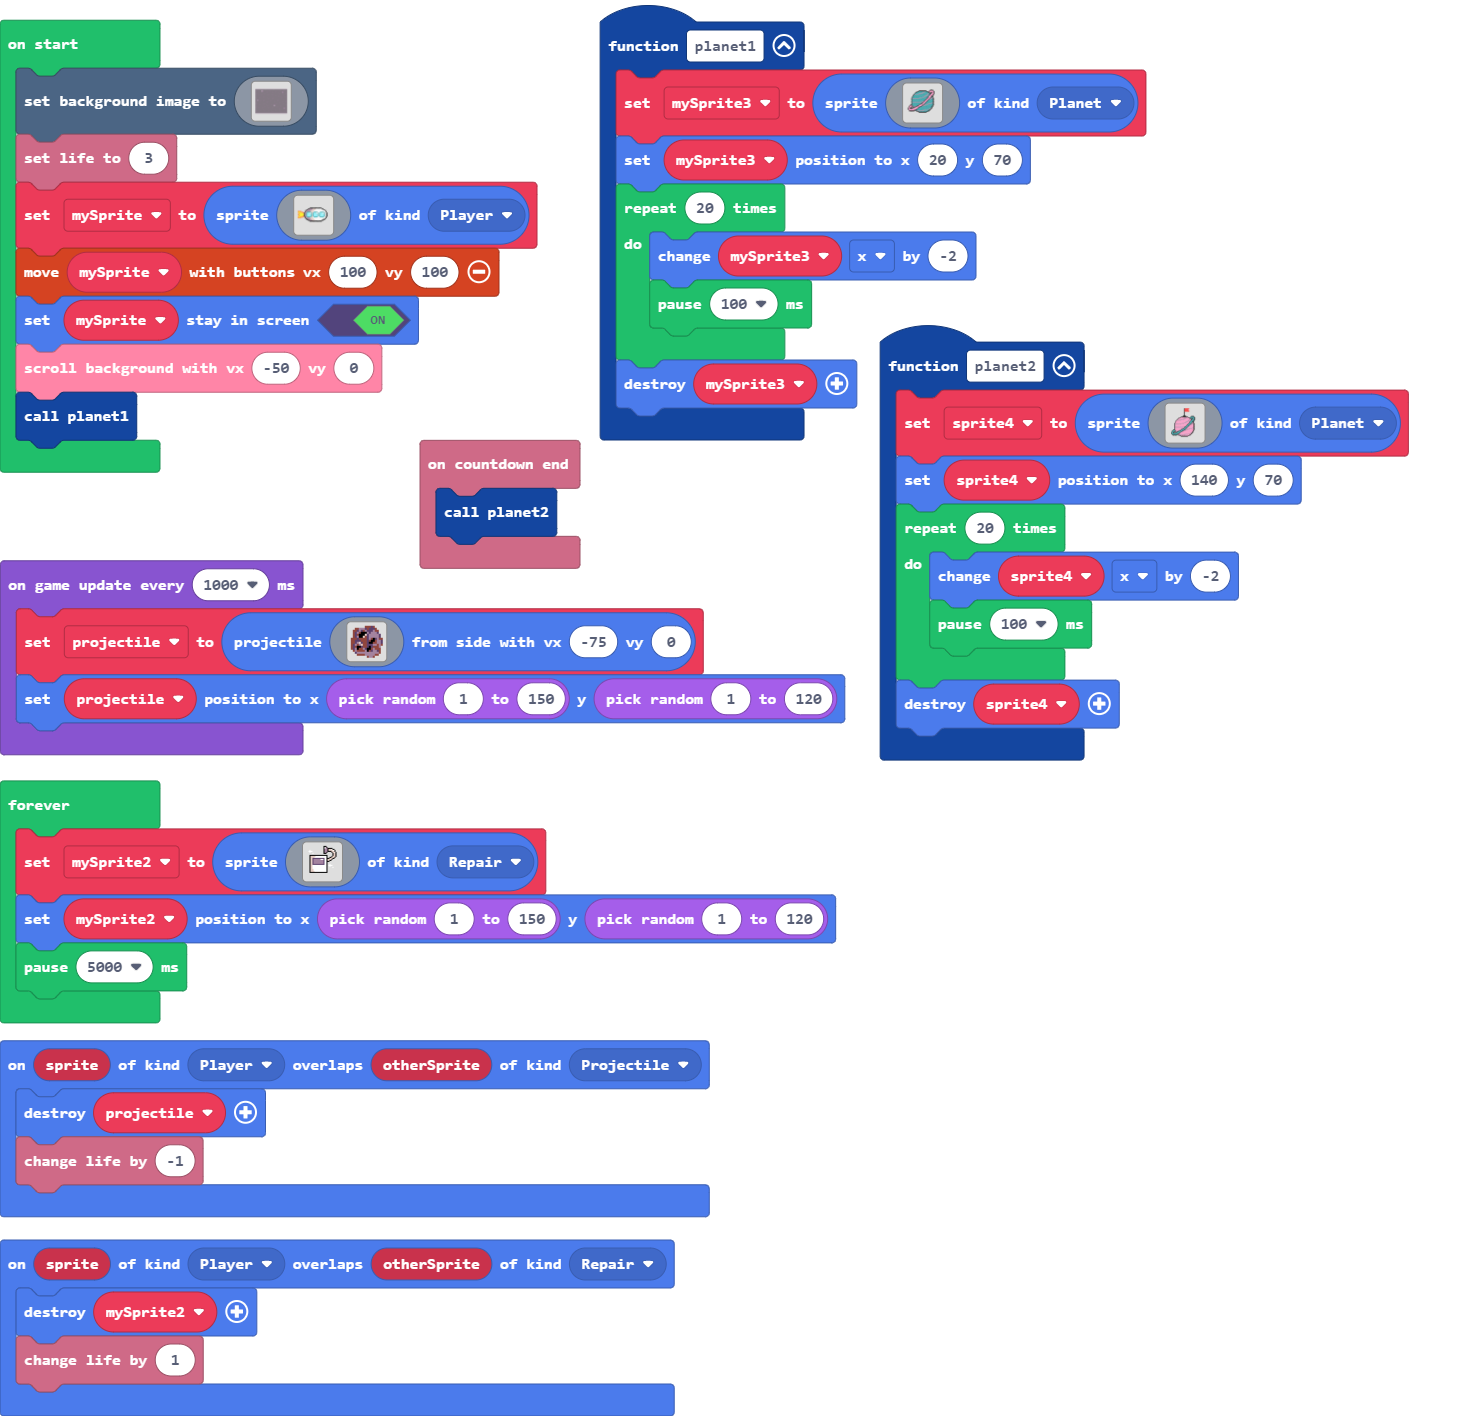
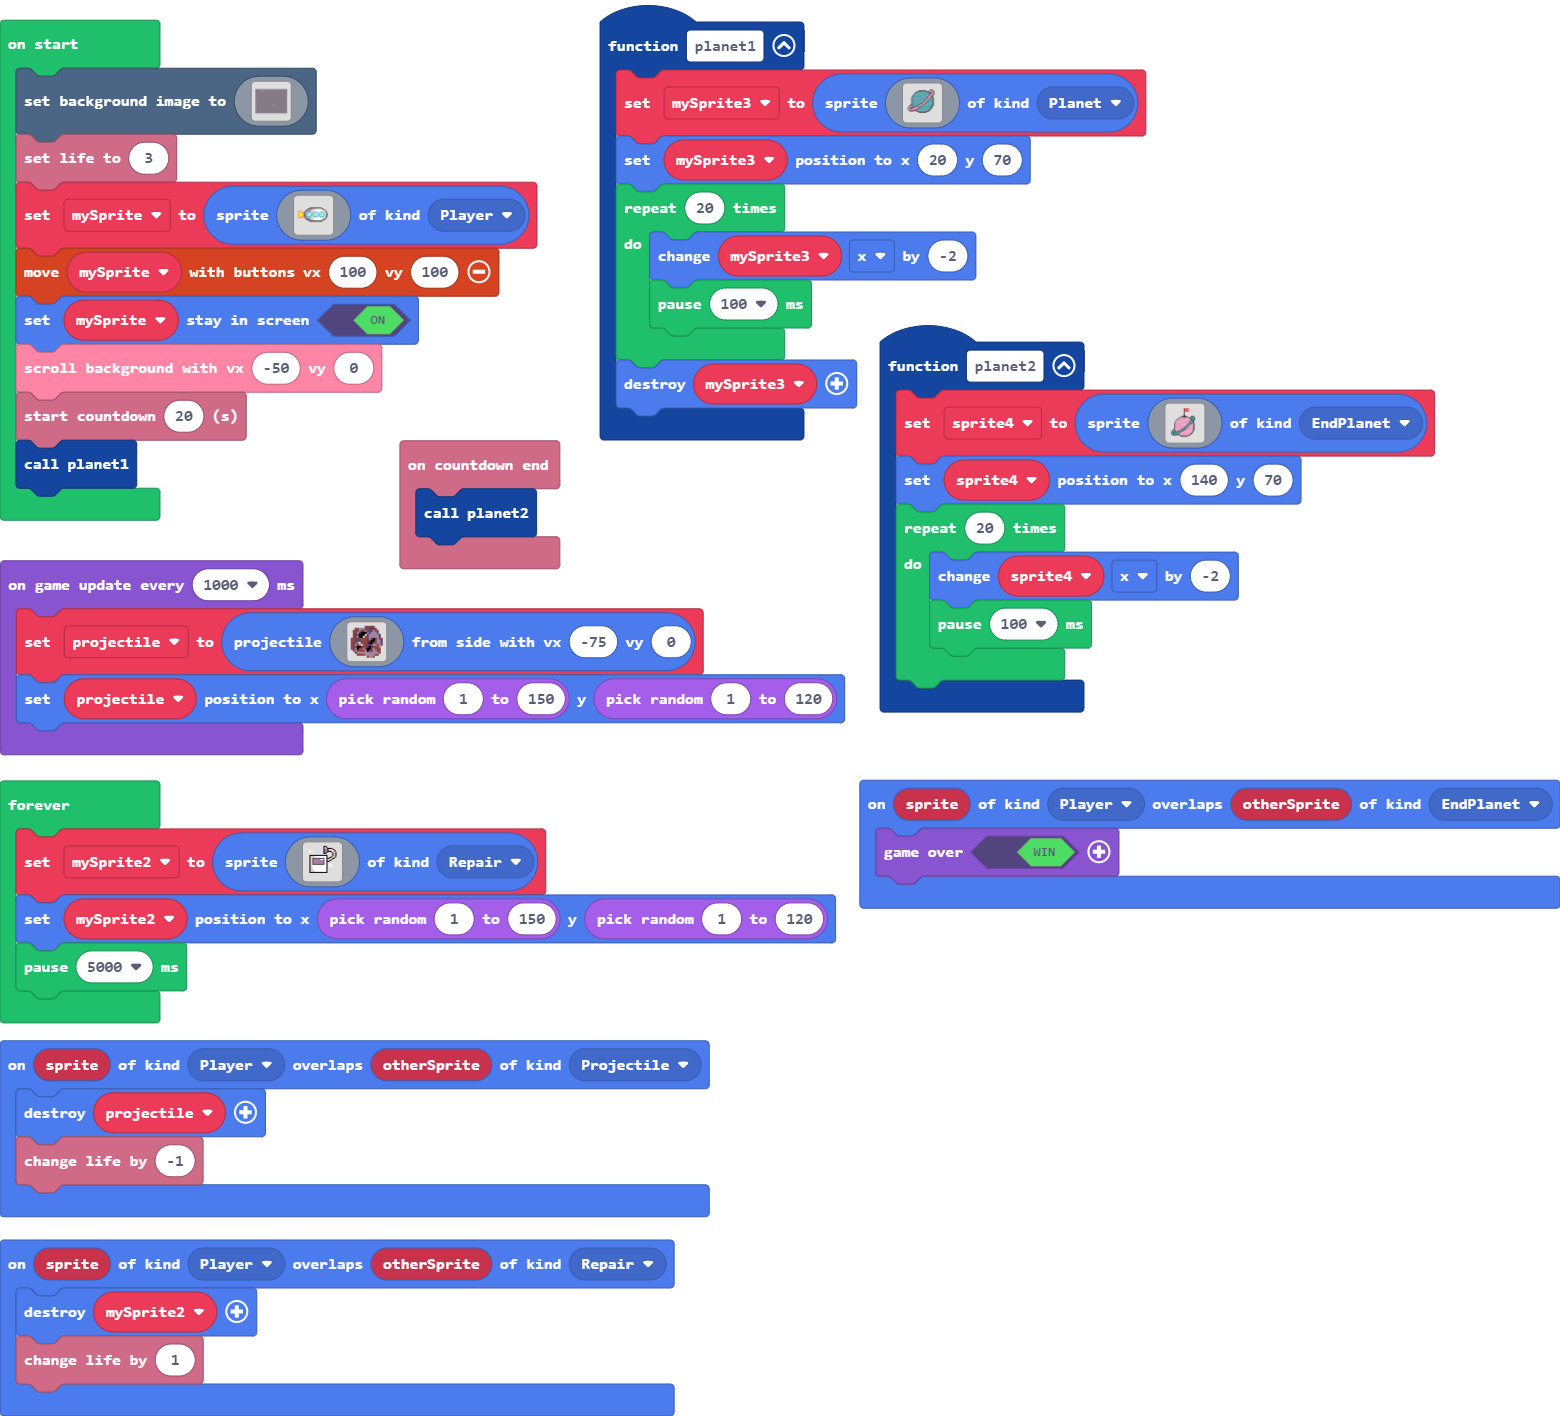
Update main.blocks, main.ts

diff --git a/main.ts b/main.ts
@@ -1,6 +1,7 @@
 namespace SpriteKind {
     export const Repair = SpriteKind.create()
     export const Planet = SpriteKind.create()
+    export const EndPlanet = SpriteKind.create()
 }
 function planet1 () {
     mySprite3 = sprites.create(img`
@@ -120,14 +121,16 @@ function planet2 () {
         .............................................
         .............................................
         .............................................
-        `, SpriteKind.Planet)
+        `, SpriteKind.EndPlanet)
     sprite4.setPosition(140, 70)
     for (let index = 0; index < 20; index++) {
         sprite4.x += -2
         pause(100)
     }
-    sprite4.destroy()
 }
+sprites.onOverlap(SpriteKind.Player, SpriteKind.EndPlanet, function (sprite, otherSprite) {
+    game.over(true)
+})
 let sprite4: Sprite = null
 let mySprite2: Sprite = null
 let projectile: Sprite = null
@@ -292,6 +295,7 @@ let mySprite = sprites.create(img`
 controller.moveSprite(mySprite, 100, 100)
 mySprite.setStayInScreen(true)
 scroller.scrollBackgroundWithSpeed(-50, 0)
+info.startCountdown(20)
 planet1()
 game.onUpdateInterval(1000, function () {
     projectile = sprites.createProjectileFromSide(img`
